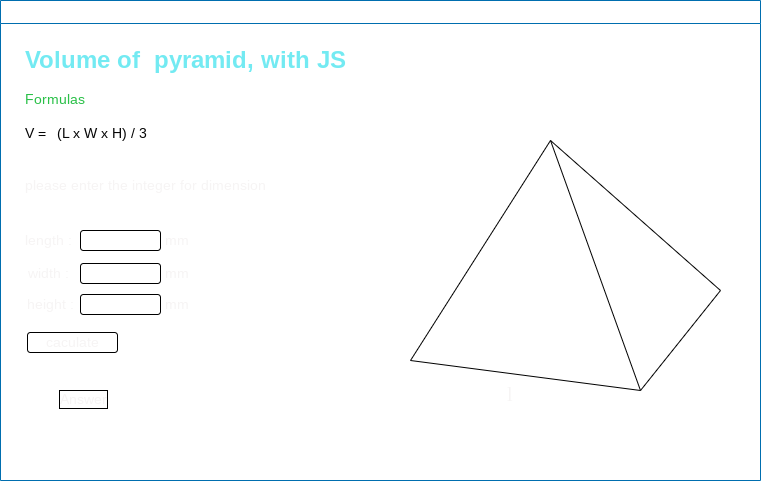
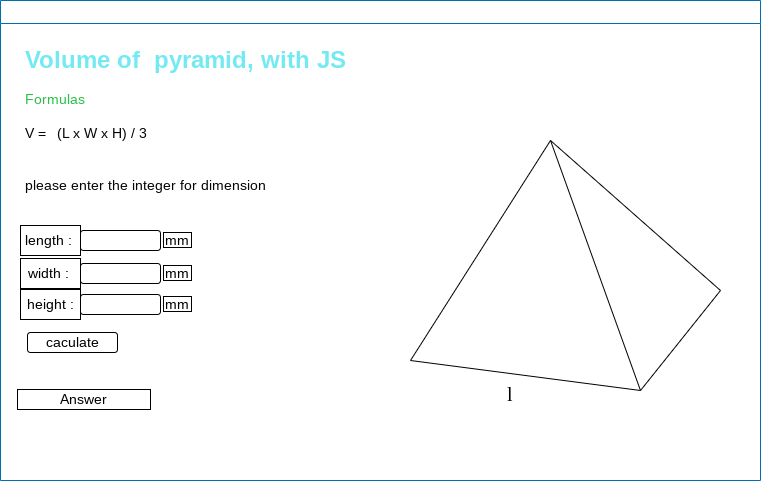
#

diff --git a/index.html b/index.html
@@ -27,6 +27,8 @@
         <!-- Numeric Textfield -->
         <h2>volum of square pyramid caculator</h2>
         <hr />
+        <h5 style="color: green;"> fomula</h5>
+        <h4> V = 	(L x W x H) / 3 </h4>
         <p>input square pyramid's height</p>
         <div class="mdl-textfield mdl-js-textfield">
           <input class="mdl-textfield__input" type="text" pattern="-?[0-9]*(\.[0-9]+)?" id="get_height">
@@ -39,12 +41,12 @@
           <label class="mdl-textfield__label" for="get_width">input width here ...</label>
           <span class="mdl-textfield__error">Input is not a number!</span>
         </div>
-        </div>
         <p>input square pyramid's length</p>
         <div class="mdl-textfield mdl-js-textfield">
           <input class="mdl-textfield__input" type="text" pattern="-?[0-9]*(\.[0-9]+)?" id="get_length">
           <label class="mdl-textfield__label" for="get_length">input length here ...</label>
           <span class="mdl-textfield__error">Input is not a number!</span>
+        </div>
         </div>
         <br />
         <!-- Accent-colored raised button with ripple -->
